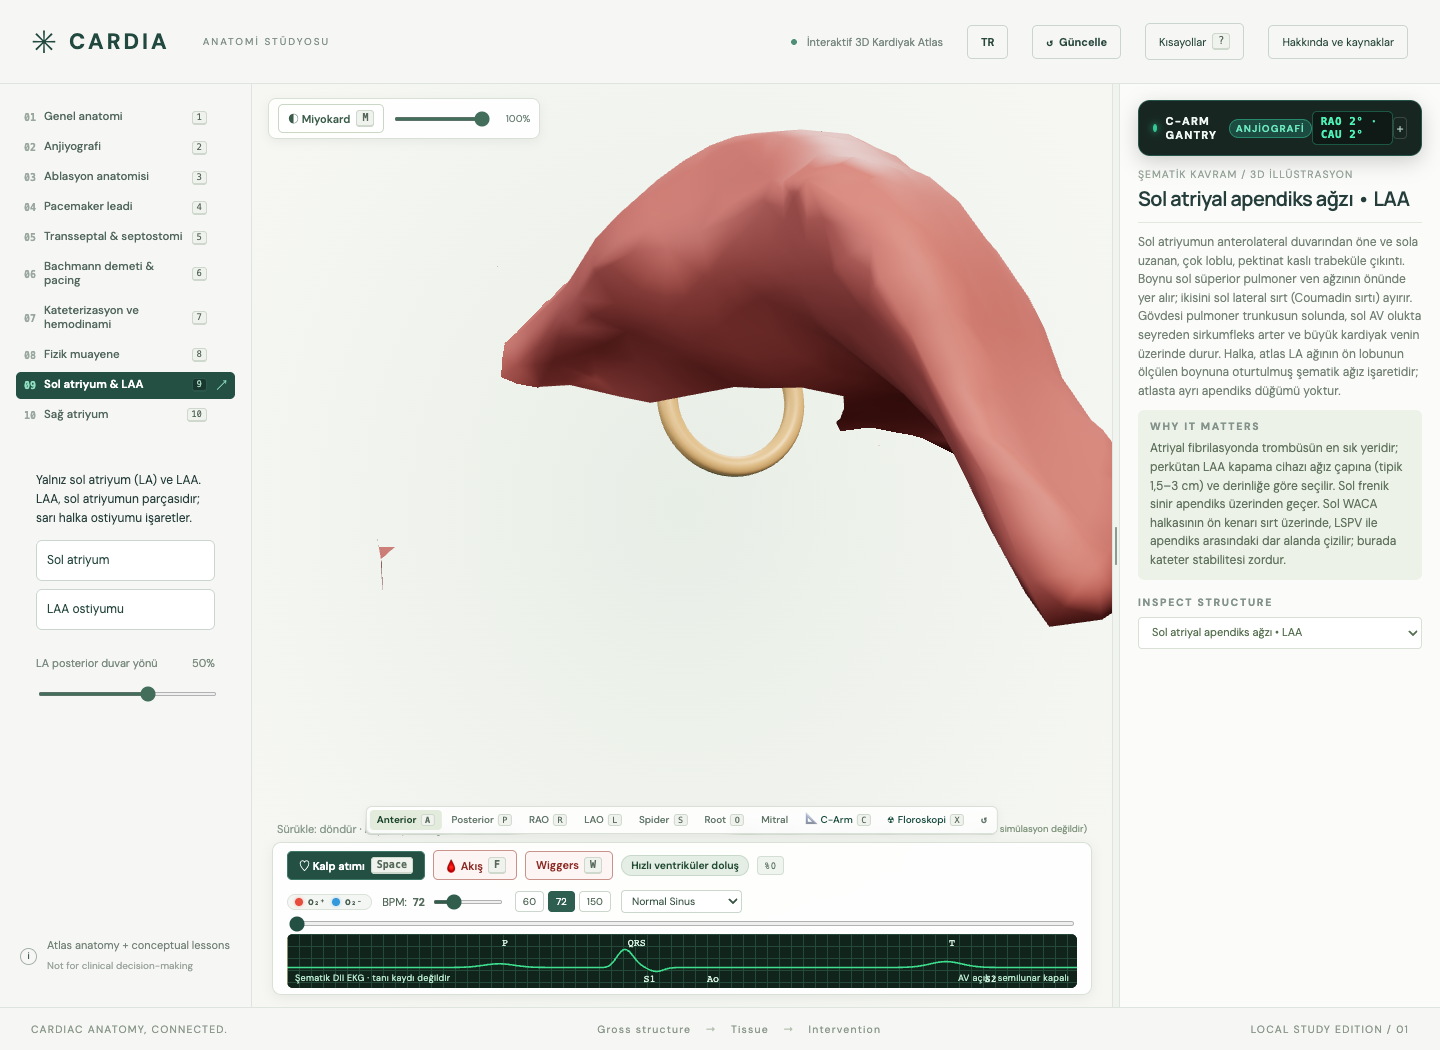
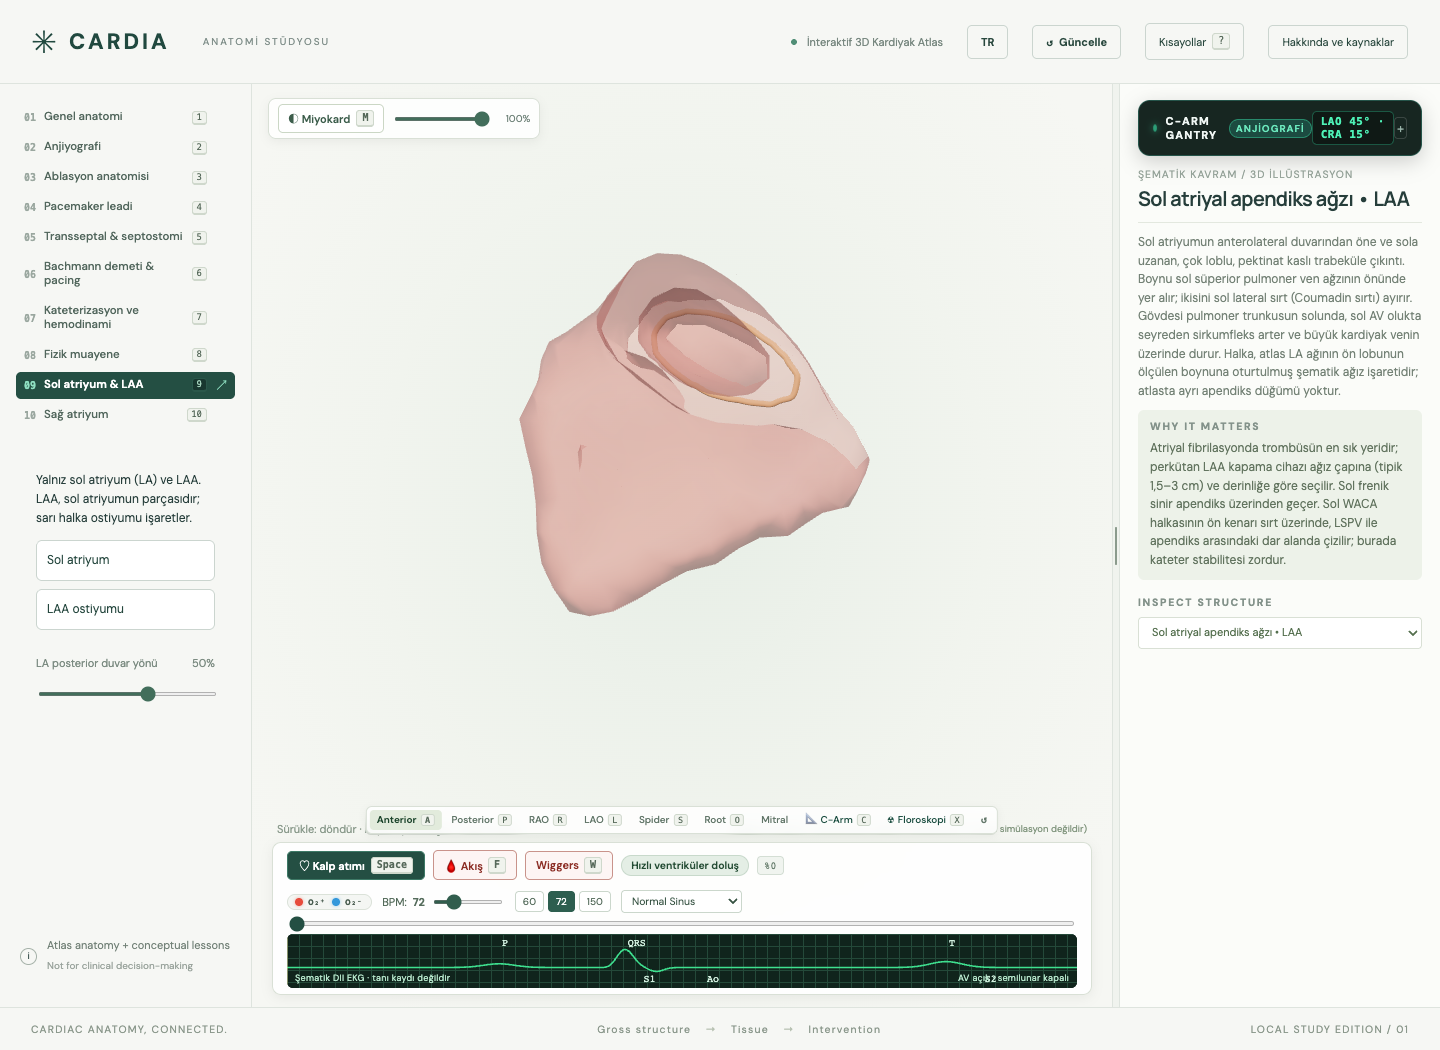
Smooth LA mesh normals and fit LAA neck ring to actual surface contour

Changed region(s): [[0.3438, 0.1219, 0.7812, 0.6095]]

diff --git a/src/heart.js b/src/heart.js
@@ -8,7 +8,7 @@ import { createPacemakerLeads } from './pacemaker-leads.js';
 import { createMitralScallops } from './mitral-scallops.js';
 import { createAnnuli } from './annuli.js';
 import { addSchematicAvLeaflets } from './schematic-leaflets.js';
-import { addLaaMarker } from './la-landmarks.js';
+import { addLaaMarker, smoothLaNormals } from './la-landmarks.js';
 import { createAuscultationMarkers } from './auscultation-points.js';
 import { createThorax } from './thorax.js';
 import { createTransseptal } from './transseptal.js';
@@ -173,7 +173,7 @@ export function createHeart(container, onSelect = () => {}, onHover = () => {}, 
       const catheterVessel=(mode==='transseptal'&&['aorta','pa','cs','svc','ivc'].includes(id))||(mode==='cath'&&['aorta','pa','svc','ivc'].includes(id));
       const roofContext=mode==='bachmann'&&(layer==='vessels'||layer==='coronaries');
       const faintPa=visibility['pa-faint']&&id==='pa';
-      const alpha=tissue?opacity:faintPa?.22:roofContext?.14:catheterVessel?.28:(id==='aorta'&&rootWindow?.22:1);
+      const alpha=mode==='atria'&&selected==='laa'?(id==='la'?Math.min(opacity,.32):1):tissue?opacity:faintPa?.22:roofContext?.14:catheterVessel?.28:(id==='aorta'&&rootWindow?.22:1);
       m.material.opacity=alpha;m.material.transparent=alpha<1;m.material.depthWrite=alpha>=.95;
       m.material.clippingPlanes=vesselTrims.has(m.name)?[vesselTrims.get(m.name)]:id==='aorta'&&rootWindow?[rootPlane]:id==='ivc'?[ivcPlane]:wallCuts[id]>0&&wallPlanes.has(id)?[wallPlanes.get(id).plane]:[];
       if(layer==='coronaries'){
@@ -204,7 +204,43 @@ export function createHeart(container, onSelect = () => {}, onHover = () => {}, 
     }
     requestRender();
   }
-  function selectStructure(id,flyTo=true){if(mitralFocus&&!id?.startsWith('mitral')){mitralFocus=false;applyState();}if(flyTo&&id?.startsWith('mitral')&&mode==='anatomy'){selected=id;setView('mitral');return;}selected=id;paintSelection();if(flyTo){const p=sourceCenter(id);if(p){const offset=camera.position.clone().sub(controls.target);offset.setLength((mode==='atria'||mode==='ra')?3.1:['lm','lcc','rcc','ncc','mitral','tricuspid','mitral-posterior','mitral-anterior','tricuspid-septal','tricuspid-inferior','tricuspid-anterior','sa','av','his','laa'].includes(id)?3.1:6.5);lookTarget.copy(p);cameraTarget.copy(p).add(offset);transition=true;container.dataset.cameraSettled='false';requestRender();}}}
+  function selectStructure(id,flyTo=true){if(mitralFocus&&!id?.startsWith('mitral')){mitralFocus=false;applyState();}if(flyTo&&id?.startsWith('mitral')&&mode==='anatomy'){selected=id;setView('mitral');return;}selected=id;paintSelection();if(mode==='atria')applyState();if(flyTo&&mode==='atria'&&['la','laa'].includes(id)){focusLeftAtrium(id);return;}if(flyTo){const p=sourceCenter(id);if(p){const offset=camera.position.clone().sub(controls.target);offset.setLength((mode==='atria'||mode==='ra')?3.1:['lm','lcc','rcc','ncc','mitral','tricuspid','mitral-posterior','mitral-anterior','tricuspid-septal','tricuspid-inferior','tricuspid-anterior','sa','av','his','laa'].includes(id)?3.1:6.5);lookTarget.copy(p);cameraTarget.copy(p).add(offset);transition=true;container.dataset.cameraSettled='false';requestRender();}}}
+
+  function focusLeftAtrium(id) {
+    const la = meshMap.get('la')?.[0];
+    if (!la) return;
+    const box = new THREE.Box3().setFromObject(la);
+    const marker = meshMap.get('laa')?.[0];
+    const data = marker?.userData;
+    let direction = camera.position.clone().sub(controls.target).normalize();
+    if (direction.lengthSq() < .5) direction.set(0, 0, 1);
+    if (id === 'laa' && data) {
+      const neck = new THREE.Vector3(...data.orifice), tip = new THREE.Vector3(...data.tip);
+      box.setFromPoints([neck, tip]).expandByScalar(data.radius * 1.8);
+      // Look obliquely across the appendage axis so body and neck remain legible.
+      direction.set(1, .4, 1).normalize();
+    }
+    box.getCenter(lookTarget);
+    const points = [];
+    if(id==='la'){
+      const p=la.geometry.attributes.position;
+      for(let i=0;i<p.count;i++)points.push(new THREE.Vector3().fromBufferAttribute(p,i).applyMatrix4(la.matrixWorld));
+    }else{
+      for(const x of [box.min.x,box.max.x])for(const y of [box.min.y,box.max.y])for(const z of [box.min.z,box.max.z])points.push(new THREE.Vector3(x,y,z));
+    }
+    const vertical = THREE.MathUtils.degToRad(camera.fov / 2);
+    const horizontal = Math.atan(Math.tan(vertical) * camera.aspect);
+    const right=new THREE.Vector3().crossVectors(camera.up,direction).normalize();
+    if(right.lengthSq()<.1)right.set(1,0,0);
+    const up=new THREE.Vector3().crossVectors(direction,right).normalize();
+    let distance=0;
+    for(const point of points){
+      const relative=point.clone().sub(lookTarget), depth=relative.dot(direction);
+      distance=Math.max(distance,depth+Math.abs(relative.dot(right))/(Math.tan(horizontal)*.82),depth+Math.abs(relative.dot(up))/(Math.tan(vertical)*.82));
+    }
+    cameraTarget.copy(lookTarget).addScaledVector(direction, Math.min(15, Math.max(1.2, distance)));
+    transition=true;container.dataset.cameraSettled='false';requestRender();
+  }
 
   // Conceptual cellular illustration is separate from the source atlas.
   const micro=new THREE.Group();scene.add(micro);micro.visible=false;
@@ -228,6 +264,7 @@ export function createHeart(container, onSelect = () => {}, onHover = () => {}, 
       // Baking matrixWorld before applying the SAME affine transform preserves registration.
       const geometry=obj.geometry.clone().applyMatrix4(obj.matrixWorld);
       geometry.translate(-center.x,-center.y,-center.z);geometry.scale(scale,scale,scale);
+      if(part.id==='la')smoothLaNormals(geometry);
       const mesh=new THREE.Mesh(geometry,material(part.color));mesh.name=part.sourceName;mesh.userData={...part, provenance: 'atlas'};layers[part.layer].add(mesh);register(mesh,part.id);
     }
     disposeScene(gltf.scene);decoder.dispose();
@@ -238,7 +275,7 @@ export function createHeart(container, onSelect = () => {}, onHover = () => {}, 
     buildConductionSystem();
     annuli.build();
     addSchematicAvLeaflets({ getMeshes: id => meshMap.get(id) || [], register, parent: layers.valves });
-    addLaaMarker({ meshVertices, register, parent: layers.chambers });
+    addLaaMarker({ meshVertices, getMeshes: id => meshMap.get(id) || [], register, parent: layers.chambers });
     mitralScallops.build();
     thorax.build();
     computeVesselTrims();
@@ -590,7 +627,7 @@ export function createHeart(container, onSelect = () => {}, onHover = () => {}, 
   function pointerUp(e){if(!down)return;const click=Math.hypot(e.clientX-down[0],e.clientY-down[1])<6;down=null;if(click){const id=pick(e);if(id)onSelect(id);}}
   function pointerLeave(){hovered=null;down=null;paintSelection();onHover(null);}
   renderer.domElement.addEventListener('pointermove',pointerMove);renderer.domElement.addEventListener('pointerdown',pointerDown);renderer.domElement.addEventListener('pointerup',pointerUp);renderer.domElement.addEventListener('pointerleave',pointerLeave);
-  const resize=()=>{const w=Math.max(1,container.clientWidth),h=Math.max(1,container.clientHeight);renderer.setSize(w,h);camera.aspect=w/h;camera.updateProjectionMatrix();computeFit();requestRender();};
+  const resize=()=>{const w=Math.max(1,container.clientWidth),h=Math.max(1,container.clientHeight);renderer.setSize(w,h);camera.aspect=w/h;camera.updateProjectionMatrix();computeFit();if(modelReady&&mode==='atria'&&['la','laa'].includes(selected))focusLeftAtrium(selected);requestRender();};
   const observer=new ResizeObserver(resize);observer.observe(container);resize();
   let lastTime = performance.now();
   function animate(now){

diff --git a/src/la-landmarks.js b/src/la-landmarks.js
@@ -12,7 +12,7 @@ const LEFT = new THREE.Vector3(1, 0, 0);
 const SLAB = 0.1;            // slice thickness along the anterior axis (atlas units)
 const MIN_SLAB = 12;         // vertices a slice needs to count
 const NECK_RATIO = 0.6;      // the neck must be this much narrower than body and lobe
-const RING_TUBE = 0.028;
+const RING_TUBE = 0.012;
 
 function slices(verts, body, anterior, slab) {
   const bins = new Map();
@@ -79,8 +79,78 @@ export function laaOrifice(laVerts, { anterior = ANTERIOR, left = LEFT, slab = S
   return { center: neck.center, axis, radius, tip: profile[profile.length - 1].center };
 }
 
+/** Smooth shading across duplicated atlas vertices without moving any surface point. */
+export function smoothLaNormals(geometry) {
+  const p = geometry.attributes.position;
+  const index = geometry.index;
+  const sums = new Map();
+  const keys = Array.from({ length: p.count }, (_, i) =>
+    [p.getX(i), p.getY(i), p.getZ(i)].map(v => Math.round(v * 1e5)).join(','));
+  const a = new THREE.Vector3(), b = new THREE.Vector3(), c = new THREE.Vector3();
+  for (let i = 0; i < (index?.count ?? p.count); i += 3) {
+    const ids = [0, 1, 2].map(j => index ? index.getX(i + j) : i + j);
+    a.fromBufferAttribute(p, ids[0]); b.fromBufferAttribute(p, ids[1]); c.fromBufferAttribute(p, ids[2]);
+    const normal = b.sub(a).cross(c.sub(a));
+    for (const id of ids) {
+      if (!sums.has(keys[id])) sums.set(keys[id], new THREE.Vector3());
+      sums.get(keys[id]).add(normal);
+    }
+  }
+  const normals = new Float32Array(p.count * 3);
+  keys.forEach((key, i) => sums.get(key).clone().normalize().toArray(normals, i * 3));
+  geometry.setAttribute('normal', new THREE.BufferAttribute(normals, 3));
+}
+
+/** Closed LA surface/neck-plane intersection nearest the estimated appendage neck. */
+export function laaNeckContour(mesh, { center, axis, radius }) {
+  mesh.updateWorldMatrix(true, false);
+  const p = mesh.geometry.attributes.position, index = mesh.geometry.index;
+  const nodes = new Map();
+  const key = point => point.toArray().map(v => Math.round(v * 1e5)).join(',');
+  for (let i = 0; i < (index?.count ?? p.count); i += 3) {
+    const vertices = [0, 1, 2].map(j => new THREE.Vector3().fromBufferAttribute(p, index ? index.getX(i + j) : i + j).applyMatrix4(mesh.matrixWorld));
+    const hits = [];
+    for (let j = 0; j < 3; j++) {
+      const a = vertices[j], b = vertices[(j + 1) % 3];
+      const da = a.clone().sub(center).dot(axis), db = b.clone().sub(center).dot(axis);
+      if ((da < 0) === (db < 0) || Math.abs(da - db) < 1e-10) continue;
+      hits.push(a.clone().lerp(b, da / (da - db)));
+    }
+    if (hits.length !== 2) continue;
+    const [a, b] = hits.map(key);
+    if (a === b) continue;
+    hits.forEach((point, j) => {
+      const id = j ? b : a, neighbor = j ? a : b;
+      if (!nodes.has(id)) nodes.set(id, { point, edges: new Set() });
+      nodes.get(id).edges.add(neighbor);
+    });
+  }
+  const seen = new Set(), loops = [];
+  for (const start of nodes.keys()) {
+    if (seen.has(start)) continue;
+    const points = [];
+    let current = start, previous = null;
+    do {
+      if (seen.has(current)) break;
+      seen.add(current);
+      const node = nodes.get(current);
+      if (node.edges.size !== 2) break;
+      points.push(node.point);
+      const next = [...node.edges].find(id => id !== previous);
+      previous = current; current = next;
+    } while (current !== start);
+    if (current !== start || points.length < 8) continue;
+    const middle = centroid(points.map(v => v.clone()));
+    const extent = Math.max(...points.map(v => v.distanceTo(middle)));
+    if (middle.distanceTo(center) < radius * 1.5 && extent < radius * 3 && extent > radius * .4) {
+      loops.push({ points, distance: middle.distanceTo(center) });
+    }
+  }
+  return loops.sort((a, b) => a.distance - b.distance)[0]?.points ?? null;
+}
+
 /** Schematic orifice ring on the measured appendage neck, registered as `laa`. */
-export function addLaaMarker({ meshVertices, register, parent }) {
+export function addLaaMarker({ meshVertices, getMeshes = () => [], register, parent }) {
   const orifice = laaOrifice(meshVertices('la'));
   if (!orifice) return null;
   const { center, axis, radius, tip } = orifice;
@@ -88,13 +158,14 @@ export function addLaaMarker({ meshVertices, register, parent }) {
   if (u.lengthSq() < 1e-6) u.set(1, 0, 0);
   u.normalize();
   const w = new THREE.Vector3().crossVectors(axis, u);
-  const points = [];
-  for (let i = 0; i < 32; i++) {
+  const contour = getMeshes('la')[0] ? laaNeckContour(getMeshes('la')[0], orifice) : null;
+  const points = contour || [];
+  for (let i = 0; !contour && i < 32; i++) {
     const a = (i / 32) * Math.PI * 2;
     points.push(center.clone().addScaledVector(u, Math.cos(a) * radius).addScaledVector(w, Math.sin(a) * radius));
   }
   const mesh = new THREE.Mesh(
-    new THREE.TubeGeometry(new THREE.CatmullRomCurve3(points, true), 64, RING_TUBE, 10, true),
+    new THREE.TubeGeometry(new THREE.CatmullRomCurve3(points, true), 128, RING_TUBE, 8, true),
     new THREE.MeshStandardMaterial({ color: 0xd9a066, roughness: 0.4, metalness: 0.1, side: THREE.DoubleSide })
   );
   mesh.name = 'Left atrial appendage orifice (schematic ring)';
@@ -103,6 +174,8 @@ export function addLaaMarker({ meshVertices, register, parent }) {
     layer: 'chambers',
     provenance: 'schematic',
     sourceName: 'Schematic orifice ring on the measured neck of the atlas LA anterior lobe. The atlas has no separate appendage node.',
+    contourMethod: contour ? 'surface-intersection' : 'circular-estimate',
+    contour: points.map(point => point.toArray()),
     orifice: center.toArray(),
     axis: axis.toArray(),
     radius,

diff --git a/src/animation-channels.js b/src/animation-channels.js
@@ -214,11 +214,11 @@ function writeAvLeaflet(mesh, opening, frame) {
   attr.needsUpdate = true;
 }
 
-function writeChamber(mesh, weight, lockAtMaxY) {
+function writeChamber(mesh, weight, lockAtMaxY, referenceMotion = null) {
   const attr = rememberRest(mesh);
   if (!attr) return;
   const rest = mesh.userData.restPosition;
-  const { minY, maxY, cx, cz } = mesh.userData.motion;
+  const { minY, maxY, cx, cz } = referenceMotion || mesh.userData.motion;
   const height = Math.max(1e-4, maxY - minY);
   const out = attr.array;
   const radial = lockAtMaxY ? 0.11 : 0.08;
@@ -334,6 +334,8 @@ export function createAnimationChannels({ meshMap }) {
     deform('lv', weights.ventricularContraction, true);
     deform('rv', weights.ventricularContraction, true);
     deform('la', weights.atrialContraction, false);
+    const laMotion = meshMap.get('la')?.[0]?.userData.motion;
+    if (laMotion) for (const marker of meshMap.get('laa') || []) writeChamber(marker, weights.atrialContraction, false, laMotion);
     deform('ra', weights.atrialContraction, false);
     applyValves(weights);
     return weights;
@@ -351,7 +353,7 @@ export function createAnimationChannels({ meshMap }) {
   }
 
   function reset() {
-    for (const id of ['lv', 'rv', 'la', 'ra', 'lcc', 'rcc', 'ncc', 'pulmonary-valve', 'mitral', 'tricuspid', 'lv-papillary', 'rv-papillary']) {
+    for (const id of ['lv', 'rv', 'la', 'laa', 'ra', 'lcc', 'rcc', 'ncc', 'pulmonary-valve', 'mitral', 'tricuspid', 'lv-papillary', 'rv-papillary']) {
       for (const mesh of meshMap.get(id) || []) restoreMesh(mesh);
     }
   }

diff --git a/README.md b/README.md
@@ -28,6 +28,8 @@ Both modes isolate their respective anatomy, keep surrounding structures and flo
 
 Run `APP_URL=http://127.0.0.1:5177 npm run test:atria` against the development server.
 
+LA surface shading shares normals at coincident vertices without changing atlas positions or openings. The LAA marker follows a closed intersection of the LA surface with the estimated neck plane when available; otherwise it retains the circular estimate. The thinner contour moves with LA contraction. LA focus fits the full chamber to the viewport; LAA focus uses an oblique view and translucent surrounding tissue to expose the neck. These changes improve inspection, not anatomical segmentation or source mesh resolution.
+
 ## Mitral scallop view
 
 Use **Mitral** in the camera controls, or select a mitral structure in anatomy mode, to open an isolated atrial view. A1–A3 anterior segments and P1–P3 posterior scallops have paired colors and labels that follow leaflet animation. Leaflet visibility controls remain active. Another camera preset, selecting another structure, or reset restores the surrounding anatomy.
